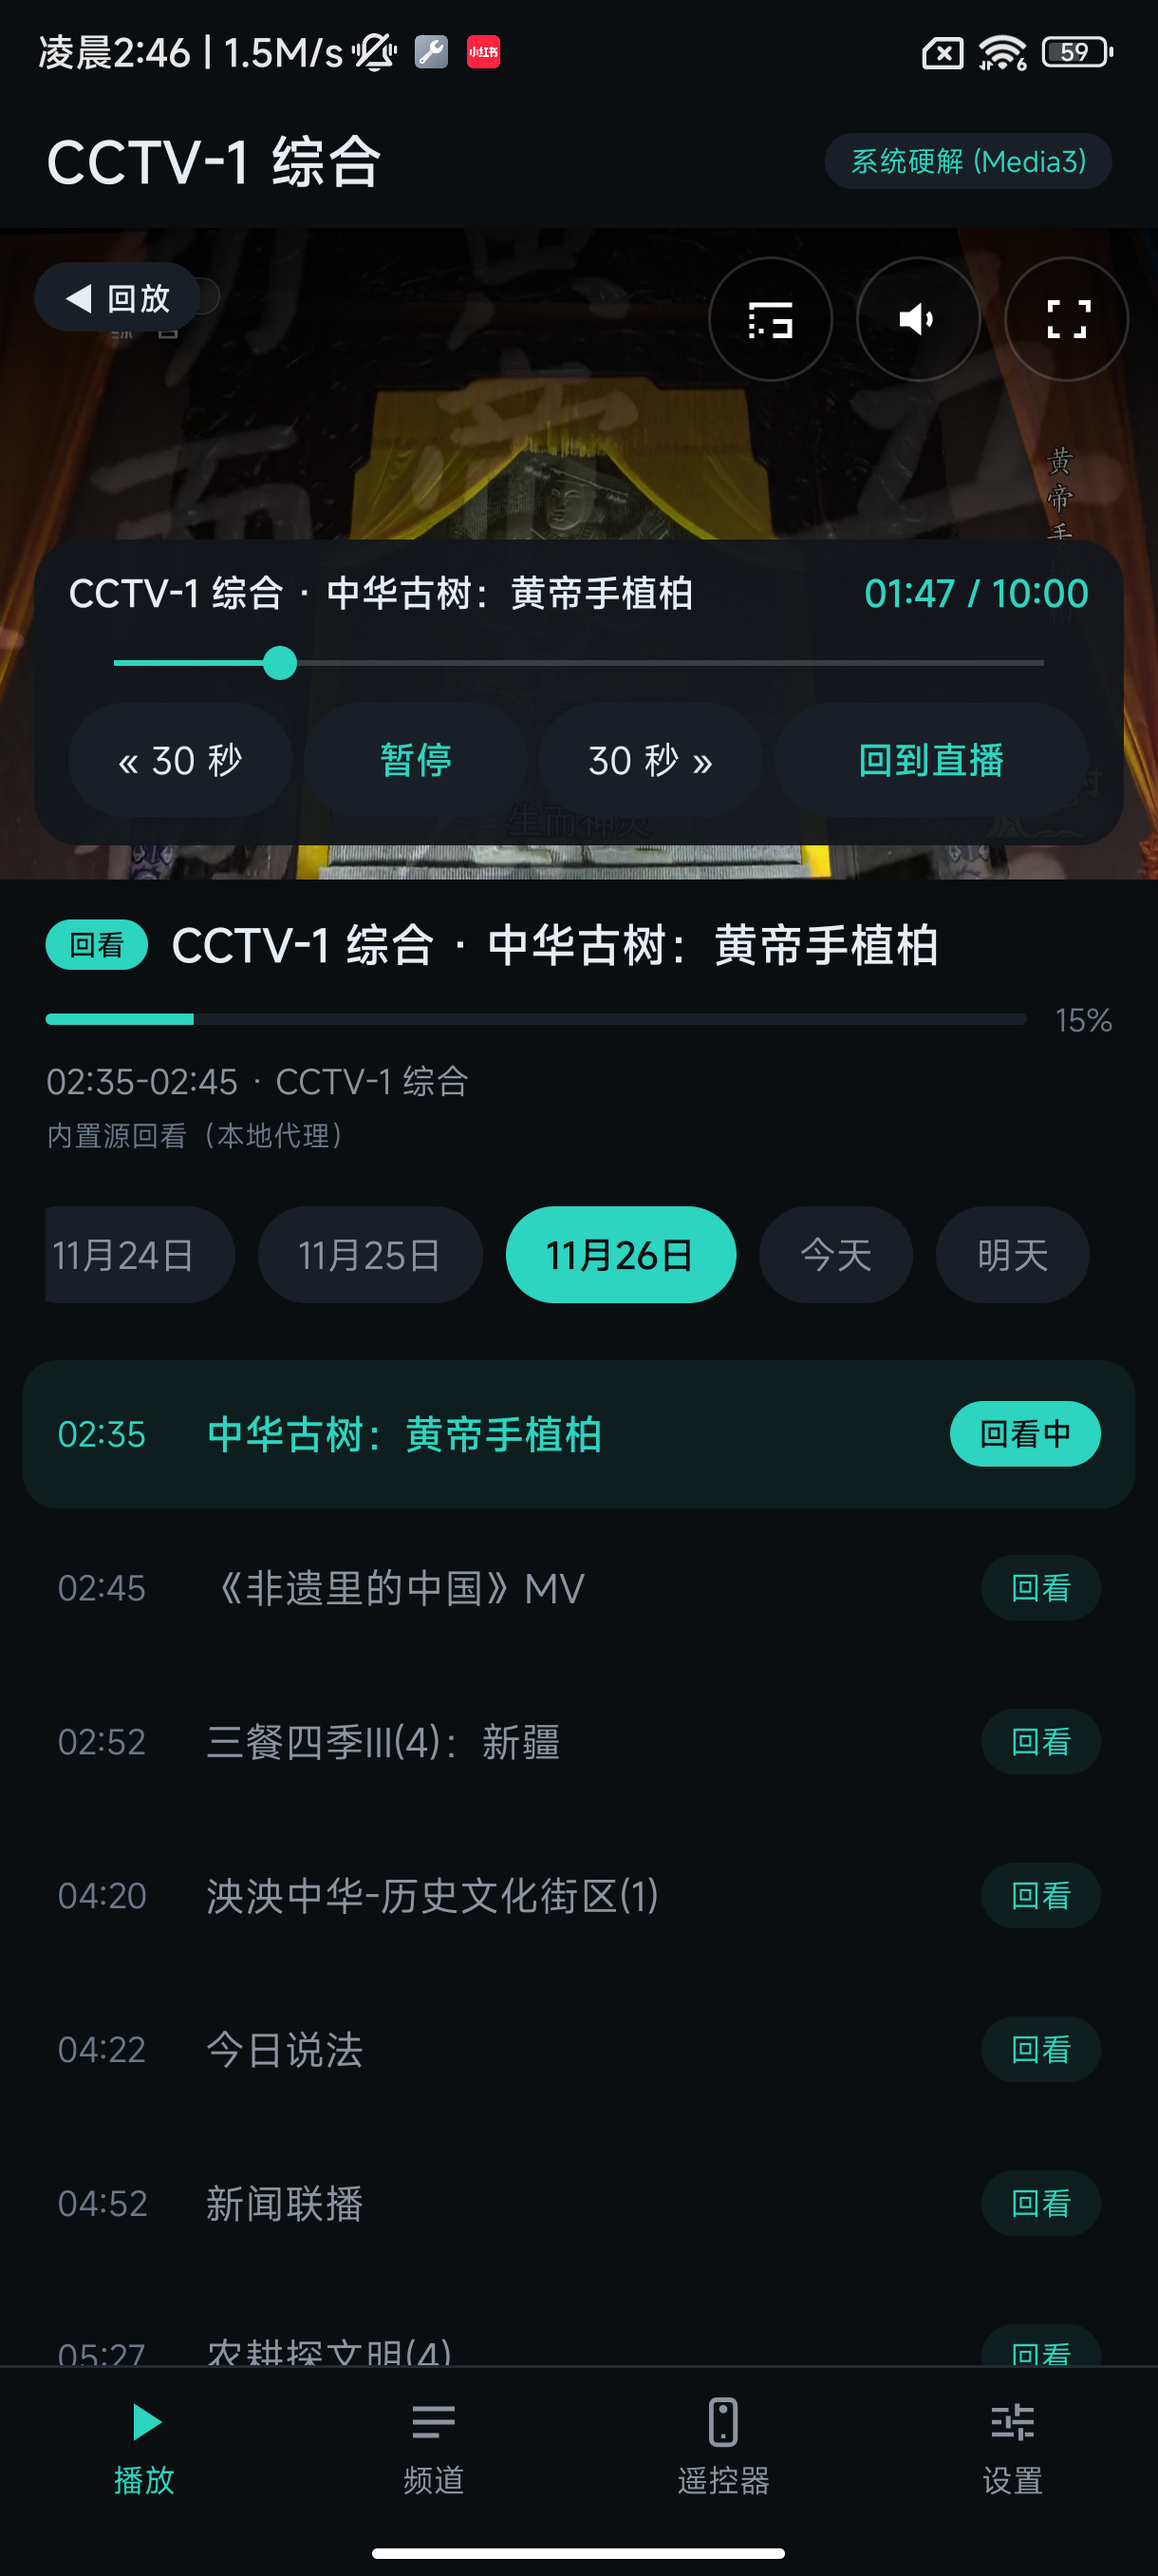
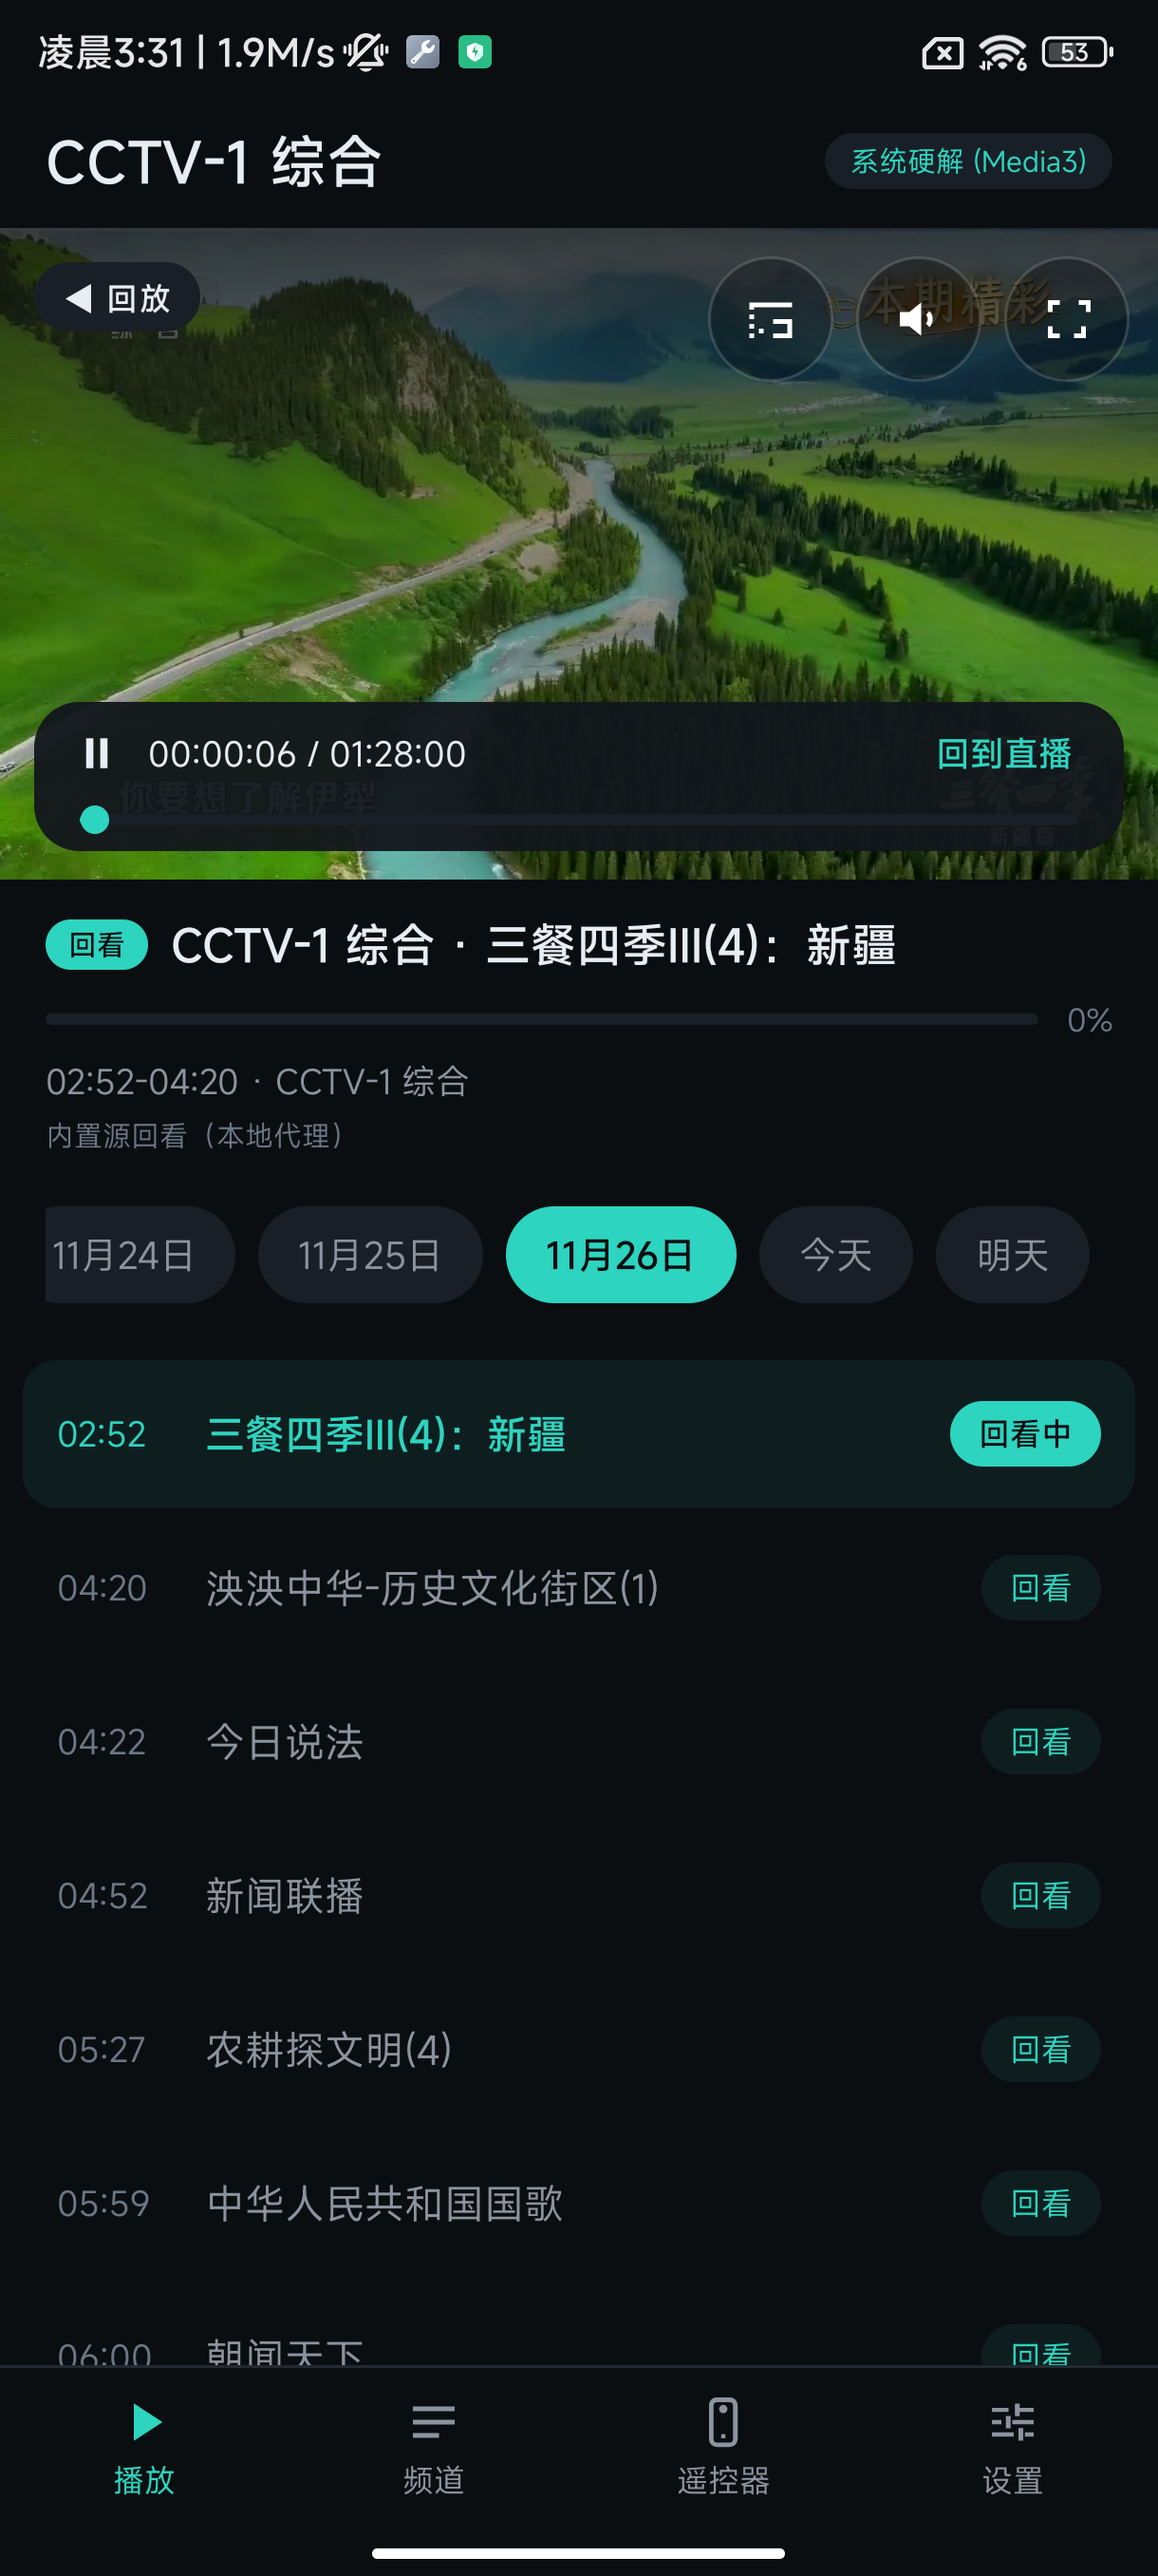
回看竖屏只留一条进度条，全屏才用完整控制条
问题：竖屏时回看控制条是一整块卡片（标题 + 时间码 + 四个按钮），一块面板吃掉小半个视频，
视频区本来就窄，看着像被压了一半。

改动：
- activity_phone_home.xml 新增 @+id/replaySlim（贴画面底部、bg_panel_flat）：一行
  「暂停图标 + 时间码 + 回到直播」+ 一条细 SeekBar，默认 gone。
- PhoneHomeActivity：
  · 新增 replaySlim / rsPlay / rsClock / rsLive / rsProgress 字段与绑定，
    rsPlay 切暂停、rsLive 回直播、rsProgress 共用同一套拖动逻辑；
  · 把进度条行为抽成 bindReplaySeek(bar)，两条进度条共用（拖动只预览、松手才 seek）；
  · 新增 applyReplayBarVariant()：竖屏显示 replaySlim、全屏显示 replayBar（互斥）；
    enterReplay / clearReplay 与 applyFullscreen 都调它；
  · applyFullscreen 的「状态没变直接 return」分支也要对一次形态，否则转屏后
    竖屏细条会留在全屏里；
  · refreshReplayBar 同步刷新细条的时间码、进度与暂停图标。

验证：真机（Redmi 22081212C、ui_mode=phone）走「内置源 CCTV-1 综合 → 11月26日 → 回看」，
竖屏截图只有一条细条（⏸ 00:00:05 / 01:28:00 · 回到直播 + 细进度条）；点全屏后
ROTATION_90，控制条变成完整卡片（标题 + 00:00:12 / 01:28:00 + «30 秒 / 暂停 / 30 秒» / 回到直播）。

diff --git a/android/app/src/main/java/com/litv/tv/ui/PhoneHomeActivity.kt b/android/app/src/main/java/com/litv/tv/ui/PhoneHomeActivity.kt
@@ -88,6 +88,12 @@ class PhoneHomeActivity : AppCompatActivity(), PlayerManager.Callback {
     private lateinit var replayClock: TextView
     private lateinit var replayProgress: android.widget.SeekBar
     private lateinit var rbPlay: TextView
+    /** 竖屏回看只留一条：暂停键 + 时间码 + 细进度条 + 回到直播（整块卡片太占画面） */
+    private lateinit var replaySlim: View
+    private lateinit var rsPlay: android.widget.ImageView
+    private lateinit var rsClock: TextView
+    private lateinit var rsLive: TextView
+    private lateinit var rsProgress: android.widget.SeekBar
 
     /** 当前回看窗口；**null = 直播**。这是「是不是回看」的唯一真相（同电视端）。 */
     private var replayWindow: ReplayWindow? = null
@@ -287,6 +293,16 @@ class PhoneHomeActivity : AppCompatActivity(), PlayerManager.Callback {
         replayClock = findViewById(R.id.replayClock)
         replayProgress = findViewById(R.id.replayProgress)
         rbPlay = findViewById(R.id.rbPlay)
+        replaySlim = findViewById(R.id.replaySlim)
+        rsPlay = findViewById(R.id.rsPlay)
+        rsClock = findViewById(R.id.rsClock)
+        rsLive = findViewById(R.id.rsLive)
+        rsProgress = findViewById(R.id.rsProgress)
+
+        // 竖屏回看只留这一条：暂停 / 时间码 / 细进度条 / 回到直播
+        rsPlay.setOnClickListener { toggleReplayPause() }
+        rsLive.setOnClickListener { backToLive("已切回直播") }
+        bindReplaySeek(rsProgress)
 
         list = findViewById(R.id.list)
         status = findViewById(R.id.status)
@@ -467,26 +483,7 @@ class PhoneHomeActivity : AppCompatActivity(), PlayerManager.Callback {
         findViewById<TextView>(R.id.rbLive).setOnClickListener { backToLive("已切回直播") }
         // 拖动只更新时间码预览，松手才 seek：VLC 的 seek 是在单线程队列里排队的，
         // 拖动过程中每移动一点就 seek 会把队列堆满，松手后还要"追"好几秒。
-        replayProgress.setOnSeekBarChangeListener(object : android.widget.SeekBar.OnSeekBarChangeListener {
-            override fun onProgressChanged(sb: android.widget.SeekBar?, progress: Int, fromUser: Boolean) {
-                if (!fromUser) return
-                val win = replayWindow ?: return
-                replayClock.text = ClockText.pair(win.durationMs * progress / 1000, win.durationMs)
-            }
-
-            override fun onStartTrackingTouch(sb: android.widget.SeekBar?) {
-                userSeeking = true
-                // 拖动期间别让 4 秒自动收条把进度条抽走
-                main.removeCallbacks(controlsHideRunnable)
-            }
-
-            override fun onStopTrackingTouch(sb: android.widget.SeekBar?) {
-                userSeeking = false
-                val win = replayWindow ?: return
-                seekReplayTo(win.durationMs * (sb?.progress ?: 0) / 1000)
-                showControls()
-            }
-        })
+        bindReplaySeek(replayProgress)
 
         // 点画面：呼出/收起控件浮层（现代播放器的通用交互）。
         // 原来点一下就直接暂停，用户完全看不到有哪些控件。
@@ -631,7 +628,12 @@ class PhoneHomeActivity : AppCompatActivity(), PlayerManager.Callback {
 
     /** 按是否全屏调整可见性与播放器高度。 */
     private fun applyFullscreen(on: Boolean) {
-        if (fullscreenApplied == on) return
+        if (fullscreenApplied == on) {
+            // 转屏有两个入口（点按钮 / 配置变更），后到的那次会在这里直接返回；
+            // 回看控制条的形态必须每次都对一遍，否则竖屏细条会一直留在全屏里。
+            applyReplayBarVariant()
+            return
+        }
         fullscreenApplied = on
         // ★ VLC 在全屏切换期间会被"往后拖"。
         //
@@ -685,6 +687,8 @@ class PhoneHomeActivity : AppCompatActivity(), PlayerManager.Callback {
 
         findViewById<View>(R.id.fsTools)?.visibility = if (on) View.VISIBLE else View.GONE
         if (on) syncFsTools()
+        // 转屏时回看控制条要跟着换形态：竖屏用细条、全屏用完整控制条
+        applyReplayBarVariant()
 
         applyVideoRatio()
         // ★ 再算一次：上面这次跑的时候，被 GONE 掉的兄弟还没重新 measure，
@@ -1995,7 +1999,7 @@ class PhoneHomeActivity : AppCompatActivity(), PlayerManager.Callback {
         replayHead = ReplayClock(window.durationMs).also { it.reset(now(), startAtMs) }
         replayTitle.text = window.title.ifBlank { ch.name }
         rbPlay.text = "暂停"
-        replayBar.visibility = View.VISIBLE
+        applyReplayBarVariant()
         playingTimeshift = true
         renderLiveBadge()
         // 回看里「上一个台/下一个台」没有意义（切台就等于退出回看），收起来免得误触
@@ -2023,6 +2027,7 @@ class PhoneHomeActivity : AppCompatActivity(), PlayerManager.Callback {
         replayingProgramStart = 0L
         main.removeCallbacks(replayTicker)
         if (::replayBar.isInitialized) replayBar.visibility = View.GONE
+        if (::replaySlim.isInitialized) replaySlim.visibility = View.GONE
         if (::player.isInitialized) player.replayMode = false
         btnPlayPause.visibility = View.VISIBLE
         findViewById<View>(R.id.btnPrevCh)?.visibility = View.VISIBLE
@@ -2041,14 +2046,59 @@ class PhoneHomeActivity : AppCompatActivity(), PlayerManager.Callback {
         backToLive("回看结束，已回到直播")
     }
 
+    /**
+     * 回看进度条的统一行为：拖动只预览时间码，**松手才 seek**。
+     * 两条进度条（竖屏细条 / 全屏控制条）共用，避免两处逻辑各写一遍。
+     */
+    private fun bindReplaySeek(bar: android.widget.SeekBar) {
+        bar.setOnSeekBarChangeListener(object : android.widget.SeekBar.OnSeekBarChangeListener {
+            override fun onProgressChanged(sb: android.widget.SeekBar?, progress: Int, fromUser: Boolean) {
+                if (!fromUser) return
+                val win = replayWindow ?: return
+                val text = ClockText.pair(win.durationMs * progress / 1000, win.durationMs)
+                if (::replayClock.isInitialized) replayClock.text = text
+                if (::rsClock.isInitialized) rsClock.text = text
+            }
+
+            override fun onStartTrackingTouch(sb: android.widget.SeekBar?) {
+                userSeeking = true
+                // 拖动期间别让 4 秒自动收条把进度条抽走
+                main.removeCallbacks(controlsHideRunnable)
+            }
+
+            override fun onStopTrackingTouch(sb: android.widget.SeekBar?) {
+                userSeeking = false
+                val win = replayWindow ?: return
+                val target = win.durationMs * (sb?.progress ?: 0) / 1000
+                seekReplayTo(target)
+                showControls()
+            }
+        })
+    }
+
+    /** 竖屏用细条、全屏用完整控制条：同一时刻只显示一条，免得画面被压两层。 */
+    private fun applyReplayBarVariant() {
+        if (!::replaySlim.isInitialized || !::replayBar.isInitialized) return
+        val replaying = replayWindow != null
+        val compact = fullscreenApplied != true
+        replaySlim.visibility = if (replaying && compact) View.VISIBLE else View.GONE
+        replayBar.visibility = if (replaying && !compact) View.VISIBLE else View.GONE
+    }
+
     private fun refreshReplayBar() {
         val win = replayWindow ?: return
         val head = replayHead ?: return
         val pos = head.tick(now())
-        replayClock.text = ClockText.pair(pos, win.durationMs)
+        val text = ClockText.pair(pos, win.durationMs)
+        replayClock.text = text
         if (!userSeeking && win.durationMs > 0) {
-            replayProgress.progress = ((pos * 1000) / win.durationMs).toInt().coerceIn(0, 1000)
+            val p = ((pos * 1000) / win.durationMs).toInt().coerceIn(0, 1000)
+            replayProgress.progress = p
+            rsProgress.progress = p
         }
+        // 竖屏细条：只有时间码与暂停图标，标题留在下面的信息块里
+        rsClock.text = text
+        rsPlay.setImageResource(if (paused) R.drawable.ic_play else R.drawable.ic_pause)
         // 播到窗口末尾自己收尾 —— 回看没有 ENDLIST，内核不会告诉我们「完了」
         if (win.durationMs > 0 && pos >= win.durationMs && !paused) onReplayReachedEnd()
     }

diff --git a/CHANGELOG.md b/CHANGELOG.md
@@ -12,6 +12,9 @@
 
 ### 新增
 
+- **竖屏回看只留一条进度条**：以前回看时整块控制卡片（标题 + 时间码 + 四个按钮）压在竖屏画面上，
+  一块面板吃掉小半个视频。现在竖屏只显示「暂停 / 00:12 / 01:28:00 / 回到直播」加一条细进度条，
+  标题和时段交给下面那块信息卡；进全屏（横屏）才换成完整控制条——那里画面够宽，四个按钮才有意义。
 - **回看的播放控件跟着界面一起扁平了**：视频上的快退 / 快进 / 投屏 / 音量 / 全屏不再是字体符号
   （`⏮ ⏭ ♪ ⛶`，换台机器字体一变就大小不一），改成一排同尺寸的圆按钮 + 矢量图标；投屏、音量、
   全屏收到右上角一行，控制条贴到画面底部、按钮做成胶囊。回看时不显示画面中央的播放键
